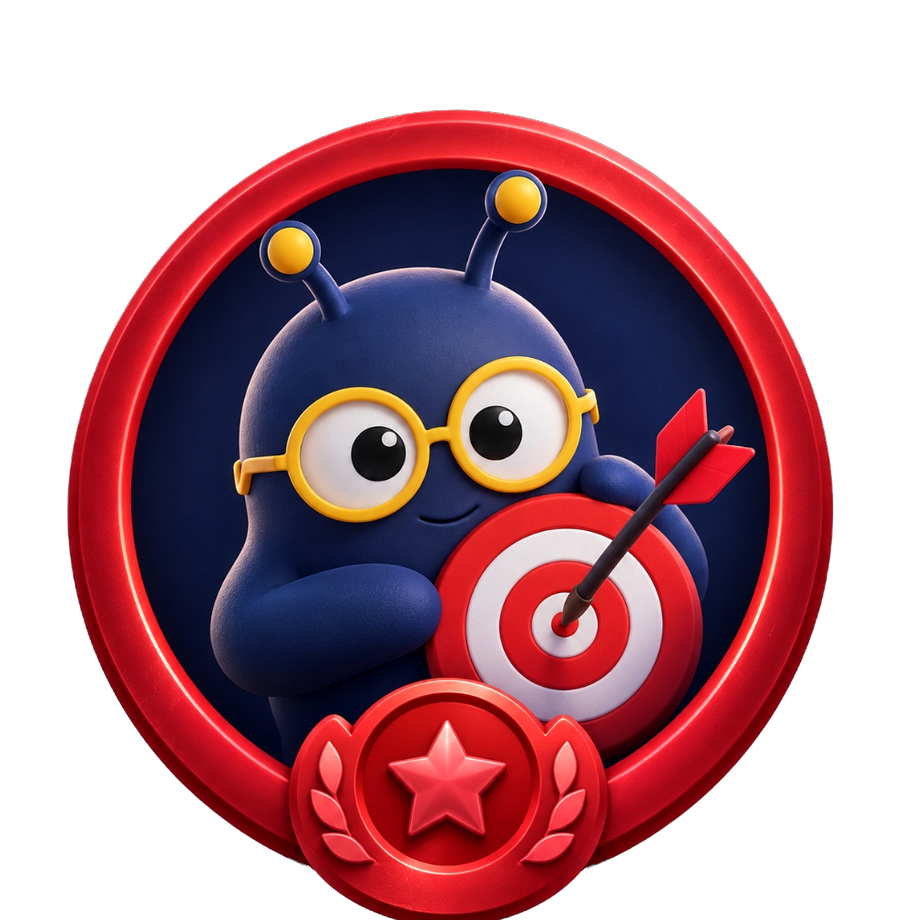
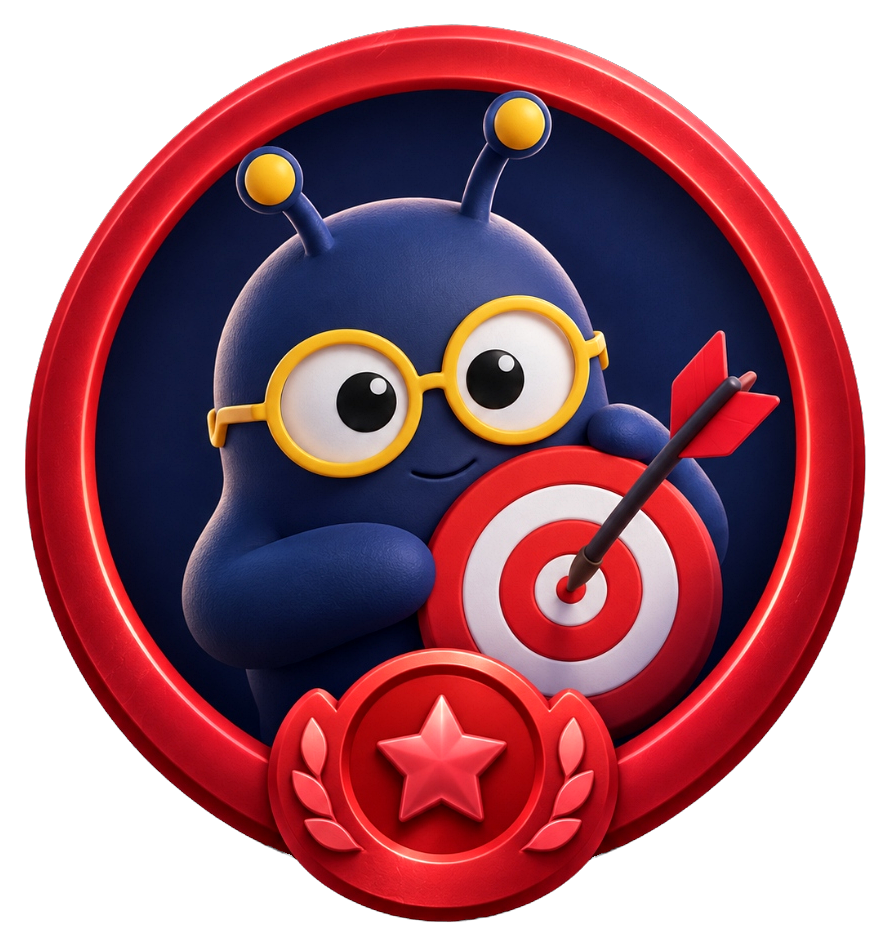
Fix badge image clipping to ensure full bottom crests are visible

diff --git a/src/components/profile/ProfileHonors.tsx b/src/components/profile/ProfileHonors.tsx
@@ -57,10 +57,10 @@ export function ProfileHonors({
   } | null>(null);
 
   const customBadgeImages: Record<string, string> = {
-    early_bird: "/badges/early-bird.png?v=3",
-    night_owl: "/badges/night-owl.png?v=3",
-    sniper_coder: "/badges/sniper-coder.png?v=3",
-    speed_demon: "/badges/speed-demon.png?v=3",
+    early_bird: "/badges/early-bird.png?v=4",
+    night_owl: "/badges/night-owl.png?v=4",
+    sniper_coder: "/badges/sniper-coder.png?v=4",
+    speed_demon: "/badges/speed-demon.png?v=4",
   };
 
   const specialBadges: SpecialBadgeItem[] = [
@@ -78,7 +78,7 @@ export function ProfileHonors({
       accentBg: "from-amber-500/20 to-orange-500/10",
       iconSvg: (isUnlocked, size = 44) => (
         <img
-          src="/badges/early-bird.png?v=3"
+          src="/badges/early-bird.png?v=4"
           alt="Early Bird"
           style={{ width: size, height: size }}
           className={`object-contain transition-all ${isUnlocked ? "" : "grayscale opacity-50"}`}
@@ -99,7 +99,7 @@ export function ProfileHonors({
       accentBg: "from-purple-500/20 to-indigo-500/10",
       iconSvg: (isUnlocked, size = 44) => (
         <img
-          src="/badges/night-owl.png?v=3"
+          src="/badges/night-owl.png?v=4"
           alt="Night Owl"
           style={{ width: size, height: size }}
           className={`object-contain transition-all ${isUnlocked ? "" : "grayscale opacity-50"}`}
@@ -120,7 +120,7 @@ export function ProfileHonors({
       accentBg: "from-rose-500/20 to-red-500/10",
       iconSvg: (isUnlocked, size = 44) => (
         <img
-          src="/badges/sniper-coder.png?v=3"
+          src="/badges/sniper-coder.png?v=4"
           alt="Sniper Coder"
           style={{ width: size, height: size }}
           className={`object-contain transition-all ${isUnlocked ? "" : "grayscale opacity-50"}`}
@@ -141,7 +141,7 @@ export function ProfileHonors({
       accentBg: "from-cyan-500/20 to-blue-500/10",
       iconSvg: (isUnlocked, size = 44) => (
         <img
-          src="/badges/speed-demon.png?v=3"
+          src="/badges/speed-demon.png?v=4"
           alt="Speed Demon"
           style={{ width: size, height: size }}
           className={`object-contain transition-all ${isUnlocked ? "" : "grayscale opacity-50"}`}
